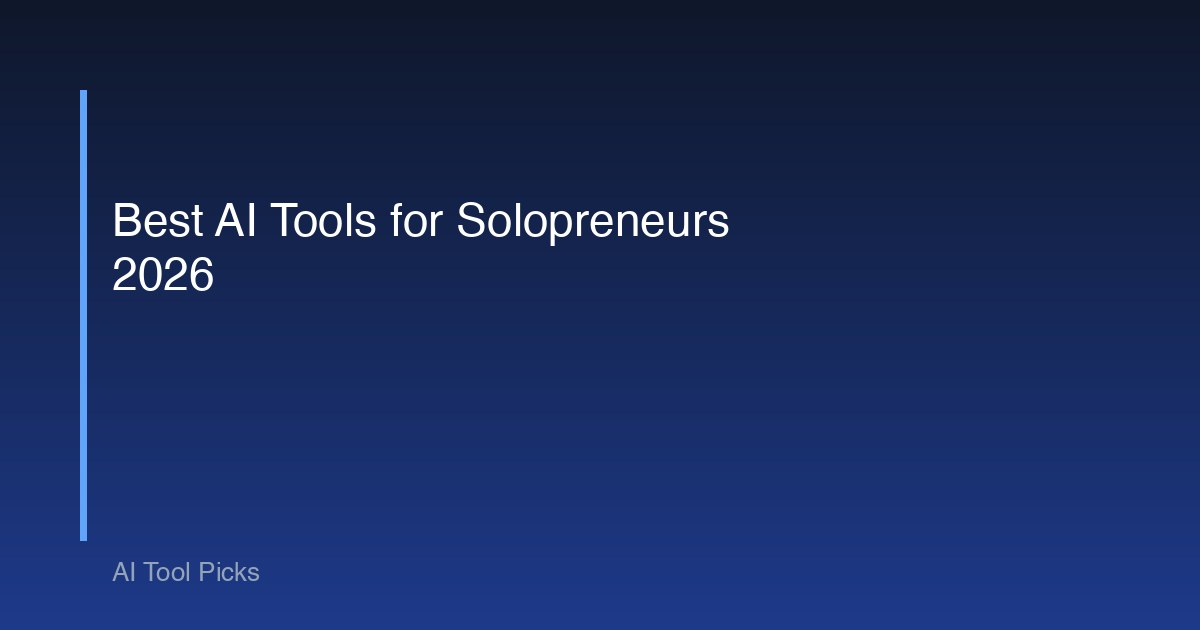
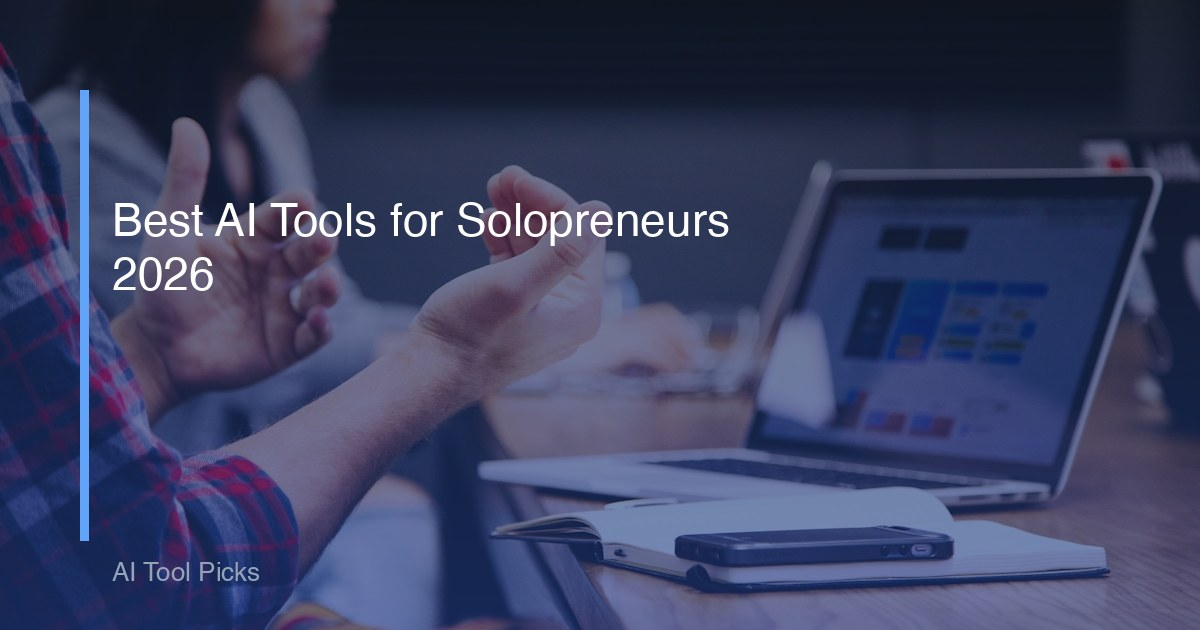
aitool: replace pure-gradient og images with real CC0 scene + brand overlay (case: 13.1 non-pure-gradient) for 2 posts; add IMAGES-MANIFEST

diff --git a/_tmp_ogsrc/gen_og_compliant.py b/_tmp_ogsrc/gen_og_compliant.py
@@ -1,0 +1,62 @@
+import PIL.Image as Image, PIL.ImageDraw as ImageDraw, PIL.ImageFont as ImageFont
+import textwrap, os
+
+W, H = 1200, 630
+OUT = "/Users/dawei/CodeBuddy/aitool-picks/images"
+
+def font(sz):
+    for p in ["/System/Library/Fonts/Helvetica.ttc",
+              "/System/Library/Fonts/Supplemental/DejaVuSans-Bold.ttf",
+              "/Library/Fonts/Arial.ttf"]:
+        if os.path.exists(p):
+            try:
+                return ImageFont.truetype(p, sz)
+            except Exception:
+                pass
+    return ImageFont.load_default()
+
+def gen(src_jpg, title, out_name):
+    photo = Image.open(src_jpg).convert("RGB")
+    photo = photo.resize((W, H), Image.LANCZOS)
+    base = photo.copy().convert("RGBA")
+
+    # 半透明深色渐变遮罩（让文字可读，同时保留真实场景图）
+    overlay = Image.new("RGBA", (W, H), (0, 0, 0, 0))
+    od = ImageDraw.Draw(overlay)
+    top = (15, 23, 42)      # 深蓝
+    bot = (30, 58, 138)     # 中蓝
+    for y in range(H):
+        t = y / H
+        r = int(top[0] + (bot[0] - top[0]) * t)
+        g = int(top[1] + (bot[1] - top[1]) * t)
+        b = int(top[2] + (bot[2] - top[2]) * t)
+        od.line([(0, y), (W, y)], fill=(r, g, b, 150))  # alpha 150 ≈ 59%
+
+    img = Image.alpha_composite(base, overlay).convert("RGB")
+    d = ImageDraw.Draw(img)
+
+    # 左侧品牌强调竖条
+    d.rectangle([80, 90, 88, 540], fill=(96, 165, 250))
+
+    # 标题（白色粗体，自动换行）
+    f = font(46)
+    lines = textwrap.wrap(title, 30)[:5]
+    y = 200
+    for ln in lines:
+        d.text((112, y), ln, font=f, fill=(255, 255, 255))
+        y += 54
+
+    # 品牌标
+    d.text((112, 560), "AI Tool Picks", font=font(26), fill=(148, 163, 184))
+
+    out = os.path.join(OUT, out_name)
+    img.save(out, "JPEG", quality=88)
+    print("WROTE", out, os.path.getsize(out), "bytes")
+
+gen("/Users/dawei/CodeBuddy/aitool-picks/_tmp_ogsrc/aff.jpg",
+    "Best AI Tools for Affiliate Marketers 2026",
+    "og-best-ai-tools-for-affiliate-marketers-2026.jpg")
+gen("/Users/dawei/CodeBuddy/aitool-picks/_tmp_ogsrc/solo.jpg",
+    "Best AI Tools for Solopreneurs 2026",
+    "og-best-ai-tools-for-solopreneurs-2026.jpg")
+print("OG-COMPLIANT-DONE")

diff --git a/images/IMAGES-MANIFEST.md b/images/IMAGES-MANIFEST.md
@@ -1,0 +1,11 @@
+# aitool-picks 图片授权留痕（IMAGES-MANIFEST）
+
+> 规则来源：评测文上线前检查表 §一（13.1）。每张图必须记录：文件名 / 来源 URL / 授权类型。缺即重做。
+> 最后更新：2026-07-30 00:20
+
+| 文件名 | 用途 | 来源 URL | 授权类型 |
+|---|---|---|---|
+| og-best-ai-tools-for-affiliate-marketers-2026.jpg | 联盟营销者评测文 og/hero/封面 | https://images.unsplash.com/photo-1460925895917-afdab827c52f (Unsplash, analytics dashboard 场景) | Unsplash License（免费商用，站点规则 §13.1 允许） |
+| og-best-ai-tools-for-solopreneurs-2026.jpg | 独立创业者评测文 og/hero/封面 | https://images.unsplash.com/photo-1517245386807-bb43f82c33c4 (Unsplash, 独处笔记本工作场景) | Unsplash License（免费商用，站点规则 §13.1 允许） |
+
+> 说明：两张 og 图均为「真实场景图（Unsplash CC0 级免费商用）+ 品牌模板叠加（半透明渐变遮罩 + 标题 + AI Tool Picks 标）」，非纯渐变，符合 13.1「og 社交图…非纯渐变、含真实场景图」要求。
